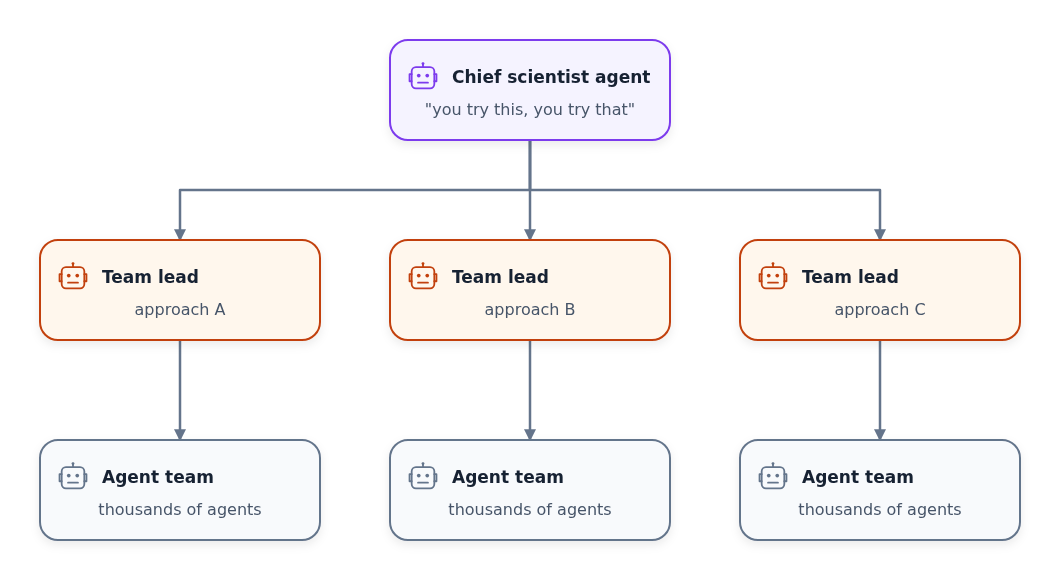
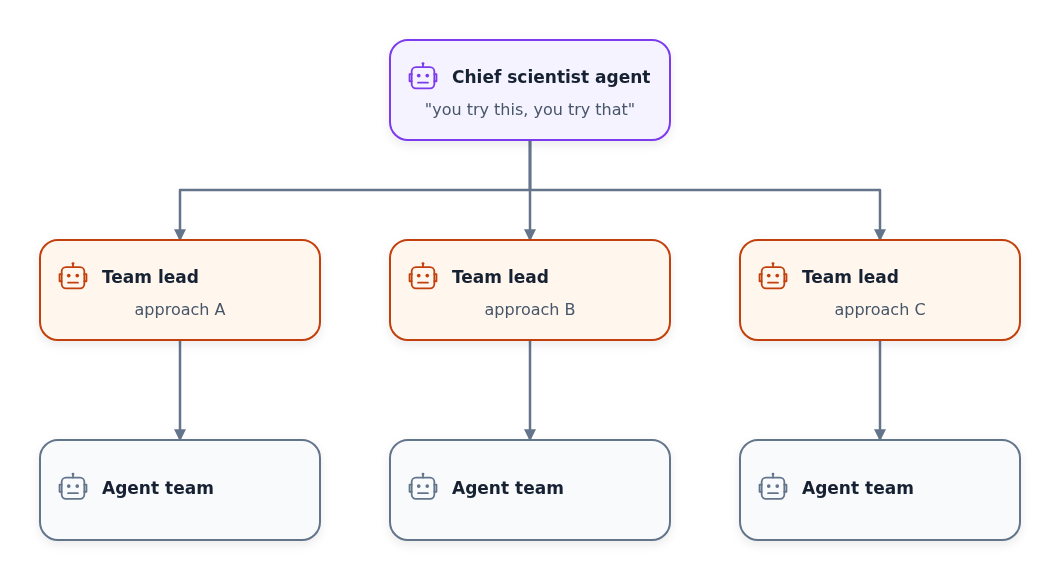
Lightning lesson: drop agent counts from hierarchy diagram

Changed region(s): [[0.0311, 0.8069, 0.2491, 0.9], [0.3736, 0.8069, 0.5915, 0.9], [0.716, 0.8069, 0.9028, 0.9]]

diff --git a/articles/raw-articles/trends-in-ai-engineering-lightning-lesson.md b/articles/raw-articles/trends-in-ai-engineering-lightning-lesson.md
@@ -301,7 +301,7 @@ You can't just tell them to go solve it. You need a hierarchy - for example, a c
 That's why I think product managers are uniquely equipped to run agents. They already know how to organize work in a team, set up processes, define specifications, and check work.
 
 <figure>
-  <img src="../../assets/images/trends-in-ai-engineering-lightning-lesson/agent-hierarchy.png" alt="Tree diagram: a chief scientist agent assigns approaches A, B, and C to three team lead agents, and each team lead directs its own team of thousands of agents">
+  <img src="../../assets/images/trends-in-ai-engineering-lightning-lesson/agent-hierarchy.png" alt="Tree diagram: a chief scientist agent assigns approaches A, B, and C to three team lead agents, and each team lead directs its own team of agents">
   <figcaption>Organizing 10,000 agents takes a hierarchy, not a swarm</figcaption>
 </figure>
 
